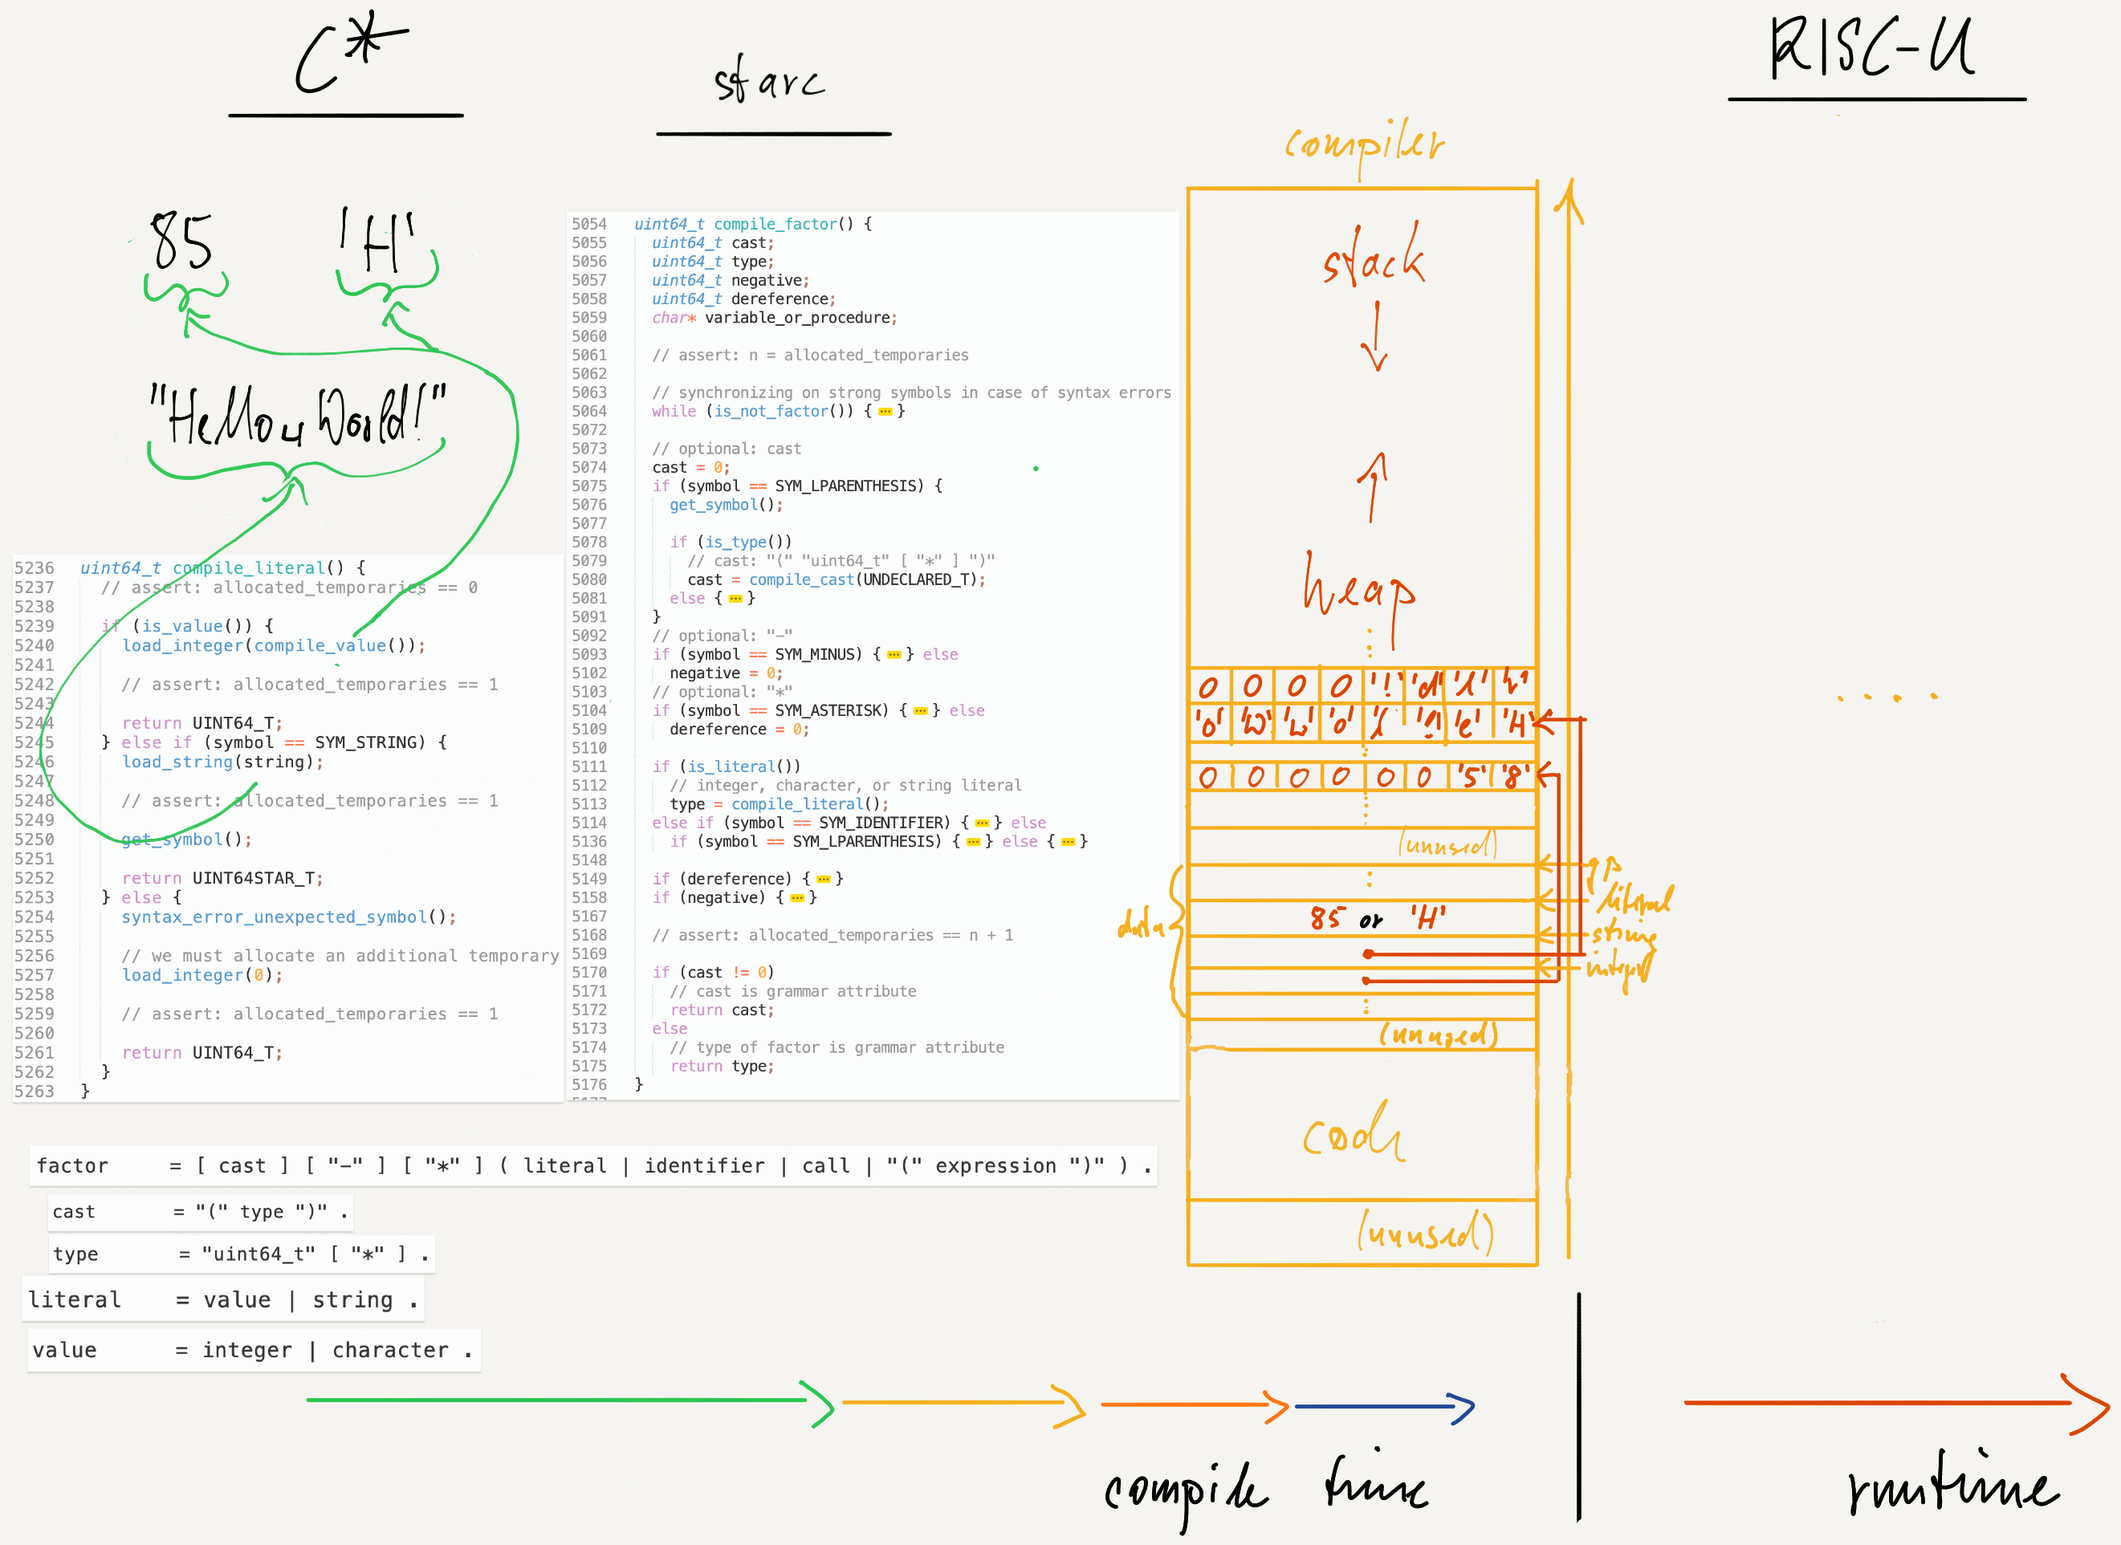
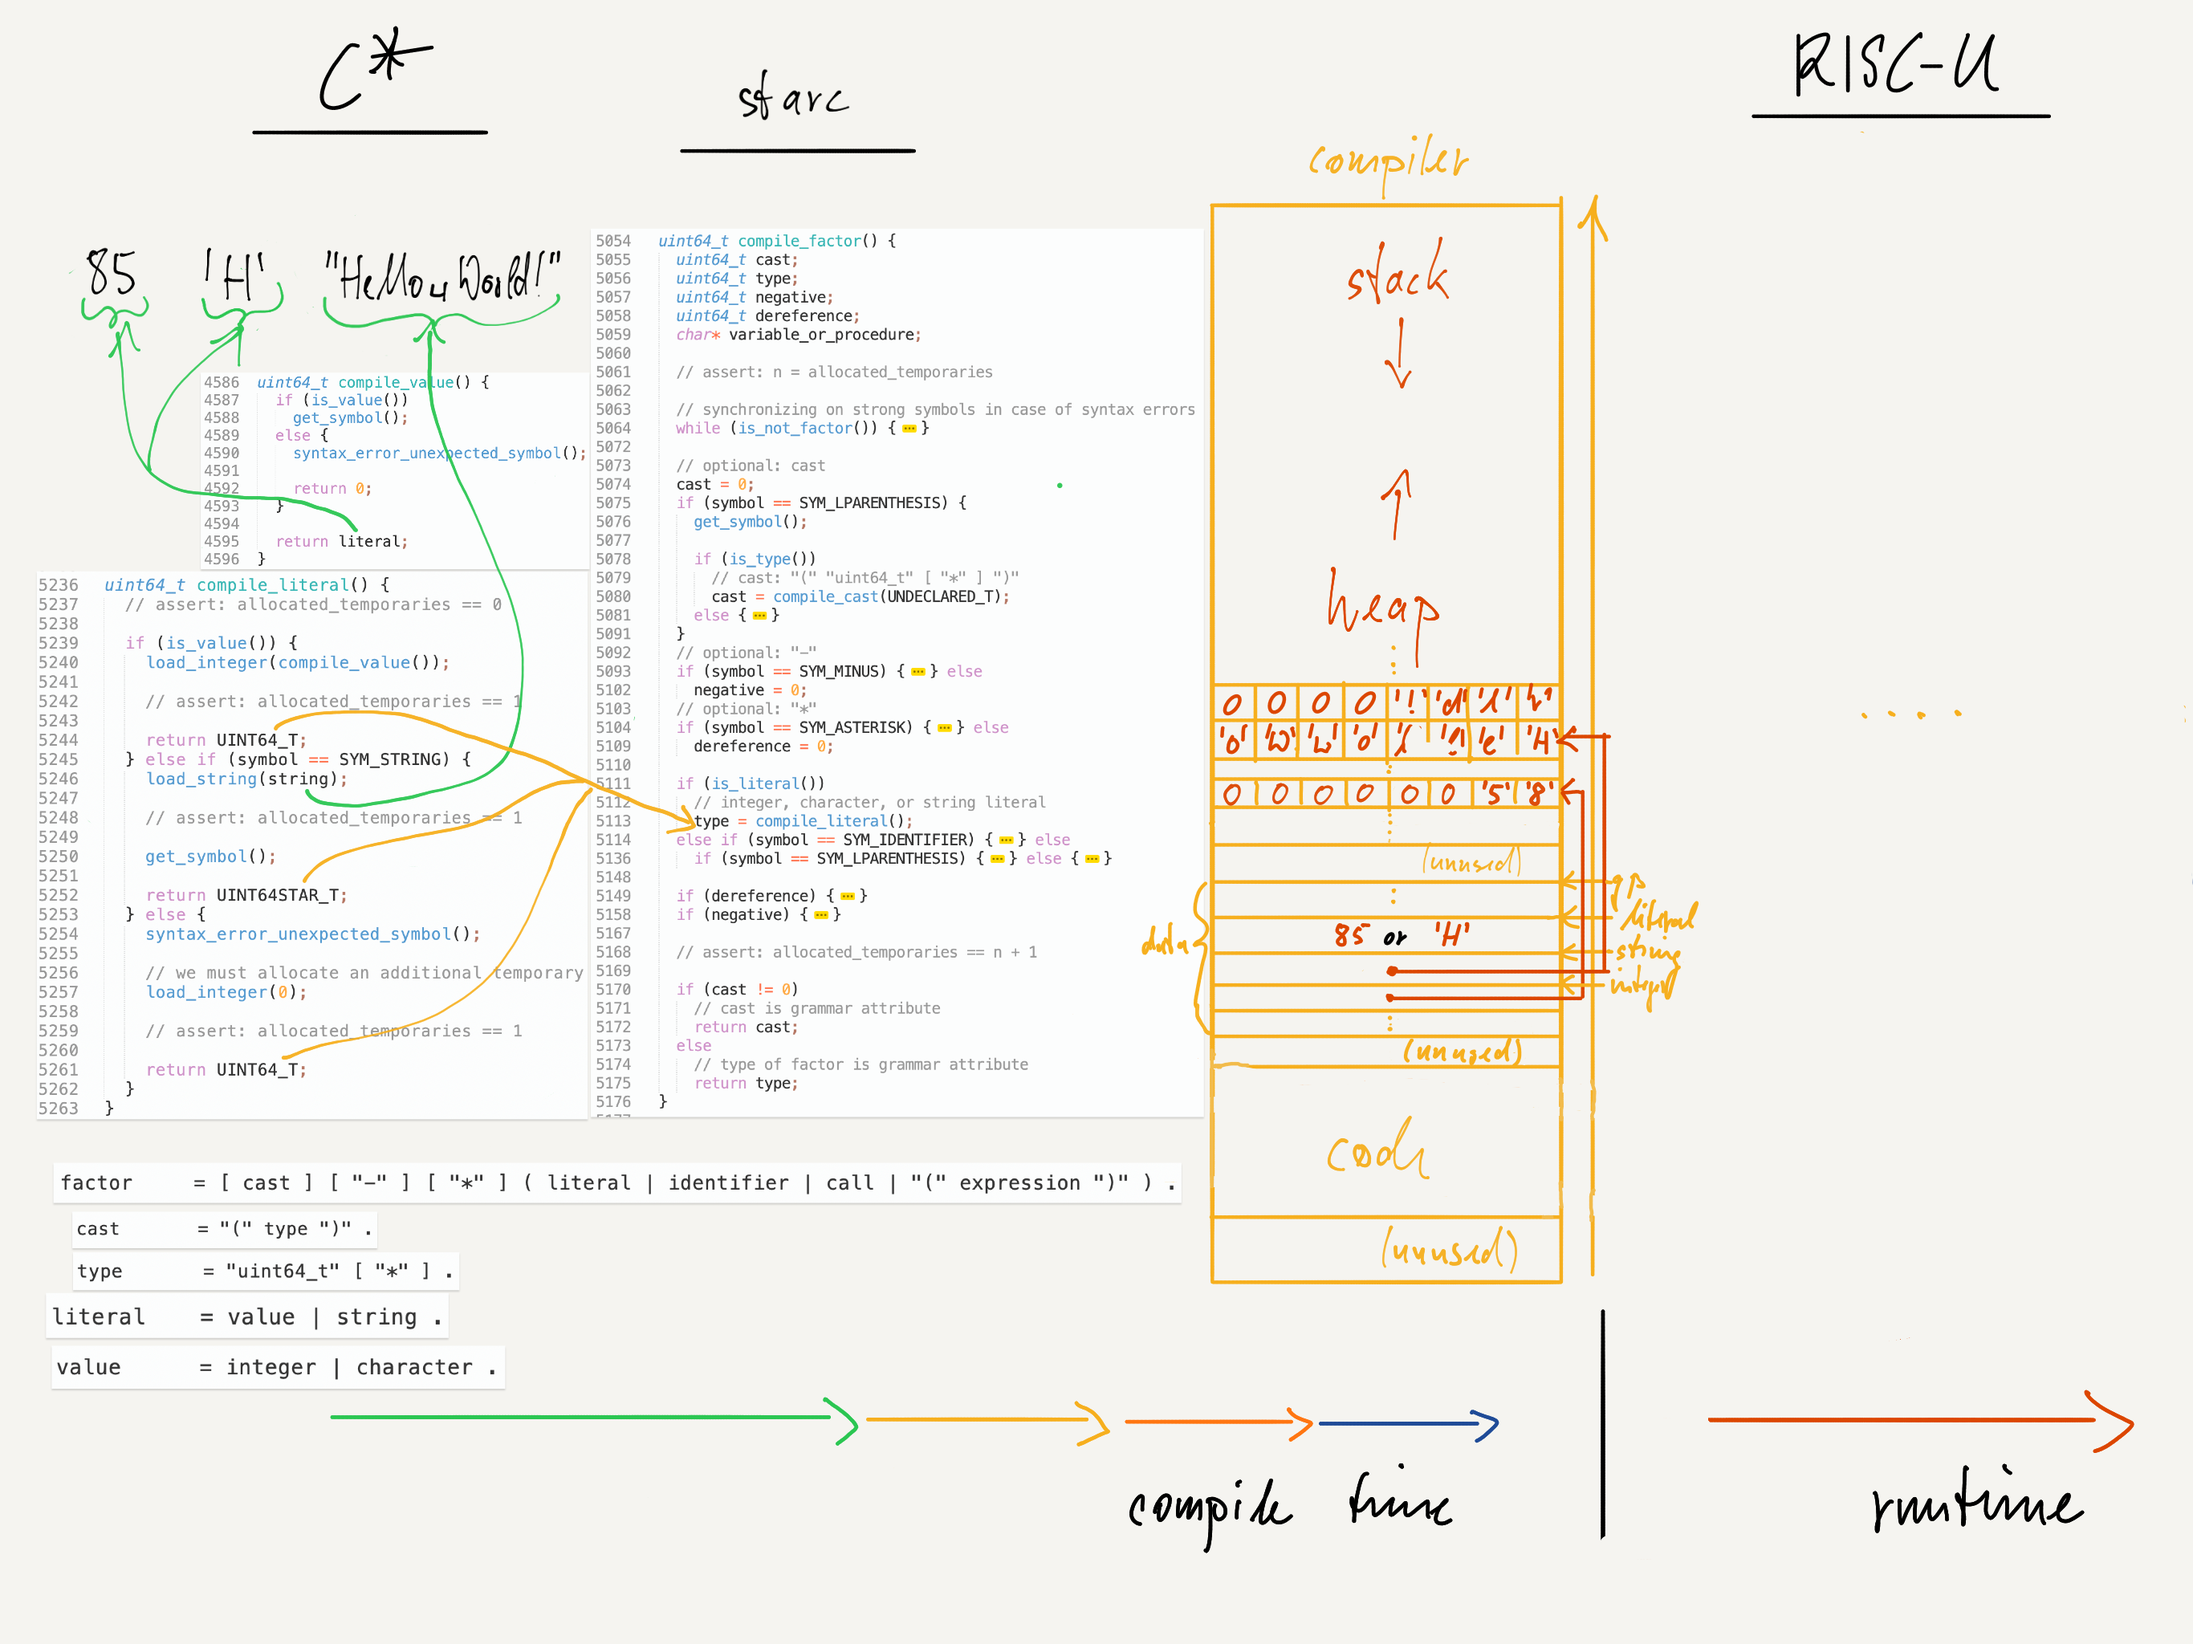
Types and values as grammar attributes

diff --git a/README.md b/README.md
@@ -4368,11 +4368,15 @@ What about using data types not just *analytically* for finding semantical error
 
 > Grammar attributes
 
-Let us go back to the code of the `compile_factor()` procedure. Also, consider the code of the procedure `compile_literal()` as well, which is called by `compile_factor()` upon parsing C\* literals. The interaction between the two procedures shows how we handle type information. The challenge is to communicate the type of a symbol such as a `literal` to other procedures involved in parsing. We do that by turning the type into a *grammar attribute* which is then passed around as return value of the procedures of the recursive-descent parser.
+Let us go back to the code of the `compile_factor()` procedure. Also, consider the code of the procedure `compile_literal()` as well, which is called by `compile_factor()` upon parsing C\* literals. The interaction between the two procedures shows how we handle type information. The challenge is to communicate the type of a symbol such as the type of a `literal` to other procedures involved in parsing. We do that by turning the type into a *grammar attribute* which is then passed around as return value of the procedures of the recursive-descent parser.
 
-For example, `compute_literal()` determines the type of integer and character literals to be `UINT64_T` which is a global variable initialized to a value that uniquely identifies the type `uint64_t`. Similarly, `compute_literal()` determines the type of string literals to be `UINT64STAR_T` which is another global variable initialized to a different value than `UINT64_T` that uniquely identifies the type `uint64_t*`. The type is then returned to `compile_factor()` which in turn may cast it to another type or just keep it as is and return it to its caller and so on. Note that the procedures `compile_value()` and `compile_cast()` are simple. Look them up in selfie's source code to find out more.
+For example, `compute_literal()` determines the type of integer and character literals to be `UINT64_T` which is a global variable initialized to a value that uniquely identifies the type `uint64_t`. Similarly, `compute_literal()` determines the type of string literals to be `UINT64STAR_T` which is another global variable initialized to a different value than `UINT64_T` that uniquely identifies the type `uint64_t*`. The type is then returned to `compile_factor()` as grammar attribute which in turn may cast it to another type or just keep it as is and return it to its caller as grammar attribute and so on. We ignore the code for handling syntax errors in `compile_literal()` and do not show the code of the procedure `compile_cast()` either. It is simple code that obviously parses `cast` and then returns the type to which the `cast` casts as grammar attribute. For more details see selfie's source code.
+
+We do, however, show the code of the procedure `compile_value()` which parses integer and character literals and is thus also quite simple but demonstrates a different use case for grammar attributes. This procedure does not return a type but instead returns the value represented by the parsed literal as stored in the global variable `literal`. Values as grammar attributes can be used to perform simple code optimizations such as *constant folding*. We explain how that works in principle below.
 
 #### Code Generation
+
+load_X procedures
 
 ![Emitting Literals](figures/emitting-literals.png "Emitting Literals")
 
